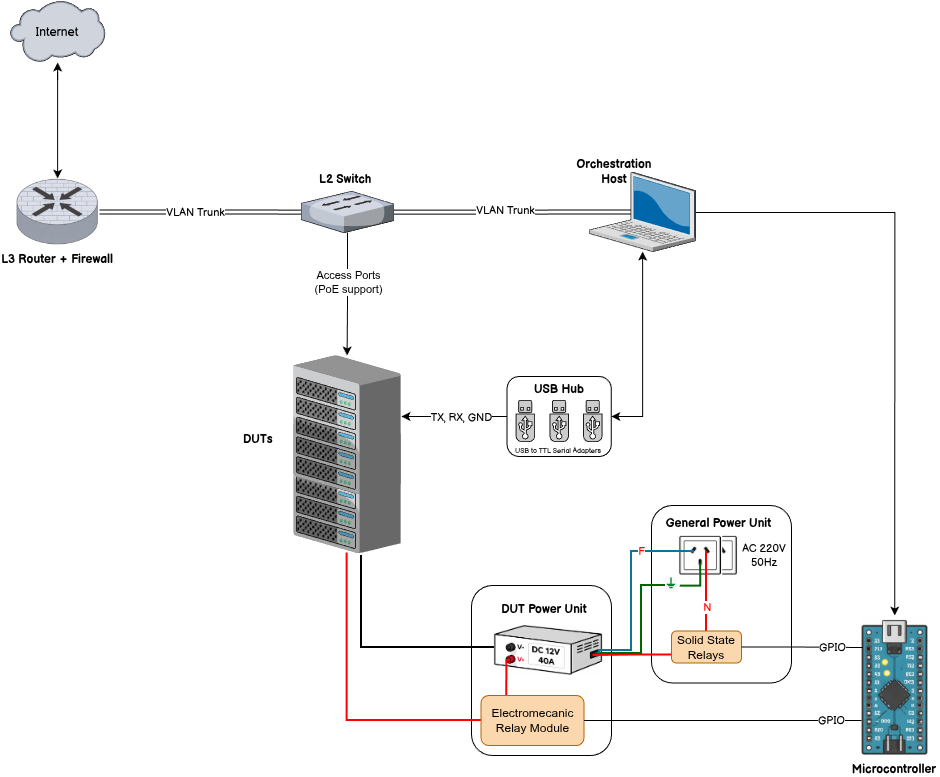
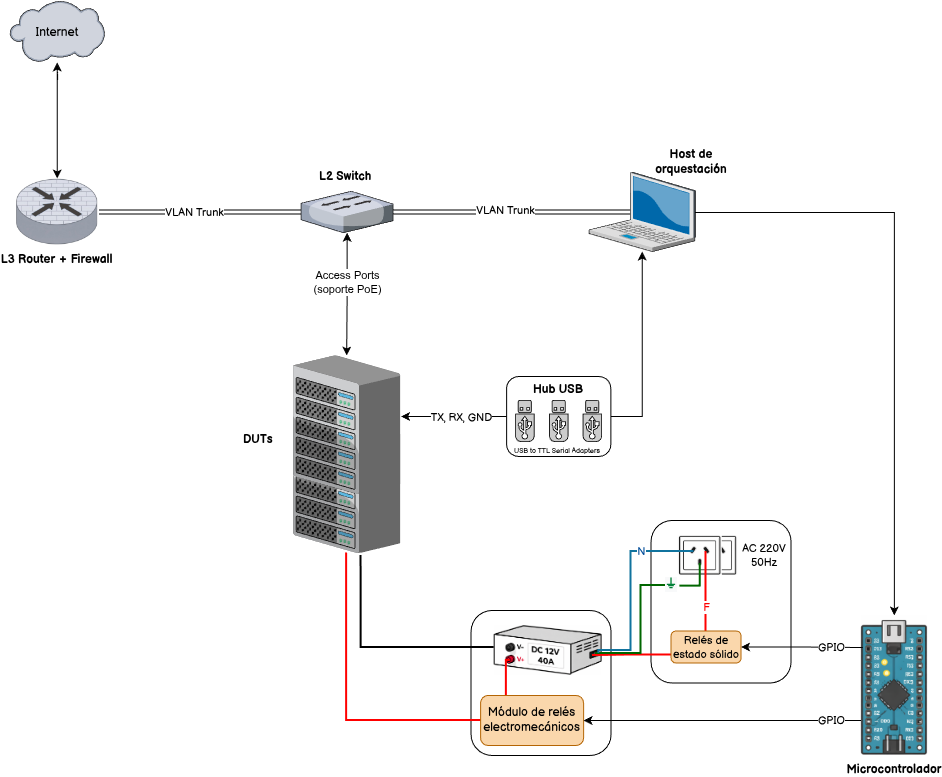
docs: update multiple sections

diff --git a/docs/glosario.md b/docs/glosario.md
@@ -86,7 +86,7 @@ Key terms used across the FCEFyN testbed documentation.
 : Pre-compiled toolchain set (one per architecture) that lets you compile OpenWrt packages without the full buildroot. The CI's `build-feed` stage uses it via `openwrt/gh-action-sdk@v9` to produce the `.ipk` / `.apk` files for the lime-packages feed.
 
 **pdudaemon**
-: A daemon that controls power to DUTs via relay boards or PDUs. Exposes an HTTP API. The lab uses an Arduino + SSR relay board controlled by pdudaemon.
+: A daemon that controls power to DUTs via relay boards or PDUs. Exposes an HTTP API. The lab uses an Arduino with electromechanical relay modules (DUTs, DC 12V) and SSR modules (infrastructure: cooler and main PSU) controlled by pdudaemon.
 
 **PAT (Personal Access Token)**
 : A GitHub credential scoped per user. The CI results pipeline uses two fine-grained PATs as repository secrets in `fcefyn_testbed_utils`: `LIME_PACKAGES_TOKEN` (Actions: Read on `lime-packages`, for downloading artifacts) and `BOT_PR_TOKEN` (Contents + Pull Requests: Write on this repo, for opening the auto-merged bot PR).
@@ -137,7 +137,7 @@ Key terms used across the FCEFyN testbed documentation.
 : Process pair that forwards `mac80211_hwsim` frames between QEMU VMs over TCP, emulating a shared radio medium. `vwifi-server` runs on the lab host and `vwifi-client` inside each VM. Lets the VMs form a real 802.11 mesh without physical hardware for the `test-mesh-qemu` jobs.
 
 **WireGuard**
-: A modern VPN protocol. Used to connect the self-hosted CI runner (on the lab's datacenter VM) to the lab host, enabling remote hardware access over an encrypted tunnel.
+: A modern VPN protocol. Used to connect the lab host to the upstream SSH gateway VM, enabling GitHub-hosted runners (openwrt-tests) to reach the lab's DUTs over an encrypted tunnel. The self-hosted runner (lime-packages physical tests) runs directly on the lab host.
 
 **create-pull-request (CI action)**
 : Third-party GitHub Action that creates PRs via the GitHub REST API instead of `git push` + `gh pr create`. `collect-lime-results.yml` uses it with `sign-commits: true` so the bot's commits land signed with GitHub's web-flow key (they show as "Verified"). Requires a PAT with **Contents: write** and **Pull requests: write** scopes on this repo, stored as the `BOT_PR_TOKEN` secret; the default `GITHUB_TOKEN` is not enough because the org has the "Allow GitHub Actions to create and approve pull requests" toggle disabled.

diff --git a/docs/diseno/ci-use-cases-proposal.md b/docs/diseno/ci-use-cases-proposal.md
@@ -10,7 +10,7 @@ The testbed supports two CI contexts:
 
 | Context | Upstream repo | Runner | Hardware |
 |---------|--------------|--------|----------|
-| **OpenWrt vanilla** | `openwrt/openwrt-tests` | FCEFyN self-hosted + remote labs | Physical DUTs (isolated VLANs) |
+| **OpenWrt vanilla** | `aparcar/openwrt-tests` | GitHub-hosted (ubuntu-latest) | Physical DUTs (isolated VLANs) |
 | **LibreMesh** | `libremesh/libremesh-tests` (fork) | FCEFyN self-hosted + GitHub-hosted | Physical DUTs (VLAN 200) + QEMU VMs |
 
 Both contexts can coexist on the same physical hardware using the hybrid lab architecture described in [hybrid-lab-proposal](hybrid-lab-proposal.md).
@@ -34,7 +34,7 @@ openwrt-tests CI
             └── OpenWrt One
 ```
 
-This use case requires FCEFyN DUTs to be registered in the upstream `global-coordinator`. See [openwrt-tests-onboarding](openwrt-tests-onboarding.md) for the onboarding process.
+This use case requires FCEFyN DUTs to be registered in `labnet.yaml` (upstream SSH gateway VM, `global-coordinator` hostname, is the SSH jump host - it does **not** run `labgrid-coordinator`). See [openwrt-tests-onboarding](openwrt-tests-onboarding.md) for the onboarding process.
 
 ---
 
@@ -105,8 +105,8 @@ See [virtual-mesh-proposal](virtual-mesh-proposal.md) for the full architecture.
 
 ```
 pool-manager.py
-    ├── openwrt pool (DUTs 1-3) → isolated VLANs → upstream coordinator
-    └── libremesh pool (DUTs 4-6) → VLAN 200 → local coordinator
+    ├── openwrt pool (DUTs 1-3) → isolated VLANs → local coordinator (via SSH gateway proxy)
+    └── libremesh pool (DUTs 4-6) → VLAN 200 → local coordinator (self-hosted runner)
 ```
 
 This use case requires the switch to support per-port VLAN configuration and the pool-manager to apply differential VLAN changes.

diff --git a/docs/diseno/test-run-flow.md b/docs/diseno/test-run-flow.md
@@ -14,7 +14,7 @@ push → build-firmware.yml → build matrix → test matrix
 
 ### 2. Runner picks up the job
 
-A self-hosted runner on the datacenter VM (`labgrid-fcefyn`) picks up the test job. The runner has WireGuard connectivity to the lab host.
+A self-hosted runner on the lab host (`labgrid-fcefyn`, Lenovo T430) picks up the test job. The runner reaches the local coordinator directly over loopback.
 
 ### 3. Labgrid reserves the DUT
 
@@ -114,21 +114,20 @@ pytest JUnit XML → uploaded as artifact → optionally published to Pages (sam
 ```mermaid
 sequenceDiagram
     participant GH as GitHub Actions
-    participant Runner as Self-hosted runner
-    participant Coord as labgrid-coordinator
-    participant Lab as Lab host
+    participant Runner as Self-hosted runner<br/>(on lab host, loopback)
+    participant Coord as labgrid-coordinator<br/>(:20408 loopback)
     participant DUT as DUT
 
     GH->>Runner: Dispatch test job
-    Runner->>Coord: lock place (WebSocket)
+    Runner->>Coord: lock place (gRPC)
     Coord-->>Runner: lock granted
-    Runner->>Lab: SSH (WireGuard)
-    Lab->>DUT: power off (pdudaemon)
-    Lab->>DUT: power on (TFTP boot)
-    DUT-->>Lab: SSH up
-    Runner->>DUT: run tests (SSH proxy)
+    Runner->>DUT: power off (pdudaemon local)
+    Runner->>DUT: power on (TFTP boot)
+    DUT-->>Runner: SSH up
+    Runner->>DUT: run tests (SSH via labgrid-bound-connect)
     Runner->>GH: upload report.xml artifact
-    Runner->>Coord: unlock place
+    Runner->>Coord: unlock place (gRPC)
     Note over GH: collect-lime-results.yml<br/>(in fcefyn_testbed_utils, every 6h)<br/>pulls artifact and opens bot PR
+    GH->>GH: publish-results job
     GH->>GH: pages.yml deploy
 ```

diff --git a/docs/diseno/hybrid-lab-tracking.md b/docs/diseno/hybrid-lab-tracking.md
@@ -46,11 +46,11 @@ Last updated: March 2026
 
 | Component | Status | Notes |
 |-----------|--------|-------|
-| `labgrid-exporter` running (openwrt pool) | ✅ | Connected to upstream coordinator |
+| `labgrid-exporter` running (openwrt pool) | ✅ | Connected to local coordinator (loopback :20408) |
 | `labgrid-exporter` running (libremesh pool) | 🔄 | Local coordinator setup in progress |
 | `places.yaml` for OpenWrt DUTs | ✅ | |
 | `places.yaml` for LibreMesh DUTs | 🔄 | IP addresses pending fixed-IP provisioning |
-| FCEFyN lab registered in upstream coordinator | 🔄 | PR open for multiple device model instances |
+| FCEFyN lab registered in labnet.yaml (upstream SSH gateway) | ✅ | PRs #219 and #228 merged |
 
 ---
 
@@ -106,5 +106,5 @@ Last updated: March 2026
 3. **virtual_mesh_launcher.py** — implement launcher script, test 2-node virtual mesh
 4. **libremesh-tests multi-node fixture** — implement `mesh_nodes_virtual` fixture in fork
 5. **virtual-mesh.yml workflow** — wire up CI for GitHub-hosted runners
-6. **Register FCEFyN lab in upstream coordinator** — close PR for multiple device model instances
+6. **Register FCEFyN lab in labnet.yaml** — done: PRs #219 and #228 merged in aparcar/openwrt-tests
 7. **Hybrid mode pool-manager** — finalize differential VLAN apply, test simultaneous pools

diff --git a/docs/operar/developer-remote-access.md b/docs/operar/developer-remote-access.md
@@ -257,21 +257,21 @@ uv run pytest tests/test_mesh.py -v --log-cli-level=INFO
 ```mermaid
 sequenceDiagram
     participant Dev as Developer machine
-    participant VM as Upstream VM<br/>(SSH :51818, gRPC :20408)
-    participant Host as labgrid-fcefyn host
+    participant VM as Upstream VM<br/>(SSH jump host :51818)
+    participant Host as labgrid-fcefyn host<br/>(coordinator :20408 loopback)
     participant Exp as Exporter (on host)
     participant DUT as DUT
 
     Dev->>VM: SSH (ProxyJump, :51818)
-    VM->>Host: SSH (WireGuard tunnel 10.0.0.10)
-    Exp->>VM: gRPC :20408 (register resources, via WireGuard)
-    Dev->>VM: gRPC :20408 lock place<br/>(tunneled via SSH through VM)
+    VM->>Host: SSH (WireGuard tunnel)
+    Exp->>Host: gRPC :20408 loopback (register resources locally)
+    Dev->>Host: gRPC :20408 lock place<br/>(tunneled via LG_PROXY SSH chain)
     Dev->>Host: rsync firmware (via SSH tunnel)
     Host->>Exp: stage firmware on TFTP
     Dev->>Exp: power cycle, serial console (via tunnel)
     Exp->>DUT: boot via TFTP
     Dev->>DUT: run pytest (via tunnel)
-    Dev->>VM: gRPC :20408 unlock place
+    Dev->>Host: gRPC :20408 unlock place
 ```
 
 | Component | Where | What |

diff --git a/docs/operar/zerotier-remote-access.md b/docs/operar/zerotier-remote-access.md
@@ -1,7 +1,7 @@
 # ZeroTier - admin remote access
 
 !!! warning "Admin-only"
-    ZeroTier is for **lab administrators** who need `sudo` on the host (Ansible, service management, switch/MikroTik consoles). Developers do **not** need ZeroTier: they reach the lab via the upstream coordinator as `ProxyJump` - see [developer-remote-access](developer-remote-access.md).
+    ZeroTier is for **lab administrators** who need `sudo` on the host (Ansible, service management, switch/MikroTik consoles). Developers do **not** need ZeroTier: they reach the lab via the **upstream VM** (SSH gateway) as `ProxyJump` - see [developer-remote-access](developer-remote-access.md).
 
 How to install ZeroTier on admin machines and reach the lab host as an unprivileged / personal user over VPN.
 

diff --git a/docs/operar/debugging-faq.md b/docs/operar/debugging-faq.md
@@ -9,8 +9,8 @@ Common problems and solutions when running tests on the FCEFyN testbed.
 ### `labgrid-client places` returns no places or an empty list
 
 - Check that `labgrid-exporter` is running on the lab host: `systemctl status labgrid-exporter`
-- Check that `labgrid-coordinator` is running on the VM: `systemctl status labgrid-coordinator`
-- Verify WireGuard connectivity: `ping <lab-host-wg-ip>` from the VM
+- Check that `labgrid-coordinator` is running on the lab host: `systemctl status labgrid-coordinator`
+- Verify WireGuard connectivity from the lab host to the upstream VM: `ping <upstream-vm-wg-ip>`
 
 ### `labgrid-client lock` hangs or times out
 

diff --git a/docs/operar/lab-running-tests.md b/docs/operar/lab-running-tests.md
@@ -90,9 +90,10 @@ Artifacts are kept for 7 days. For automated end-to-end runs, trigger the workfl
 ## Remote coordinator access (openwrt-tests)
 
 ```bash
-# Aparcar coordinator is in the cloud; exporter does the work
-# LG_COORDINATOR is set in CI runner env (HOST:PORT, gRPC - Labgrid 25.0+)
-export LG_COORDINATOR=coordinator.aparcar.org:20408
+# The coordinator runs locally on the lab host (loopback :20408).
+# GitHub-hosted openwrt-tests runners reach it via LG_PROXY (SSH tunnel through the upstream VM).
+# LG_PROXY is set in the CI runner env.
+export LG_PROXY=ssh://labgrid-coordinator:51818
 
 # List available places
 labgrid-client places
